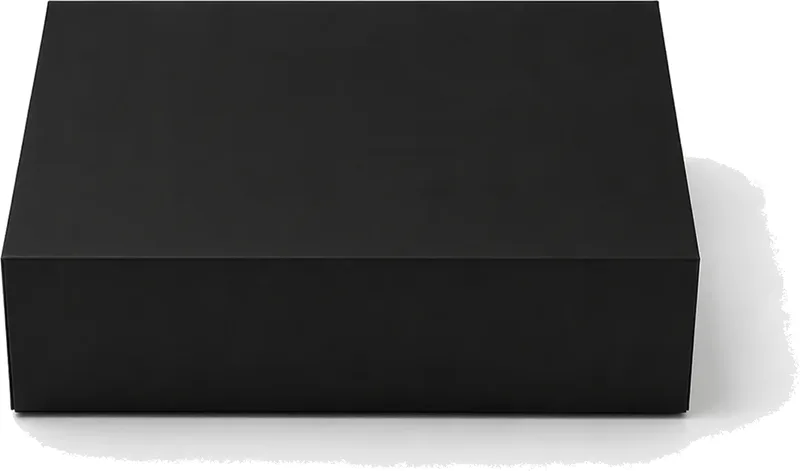
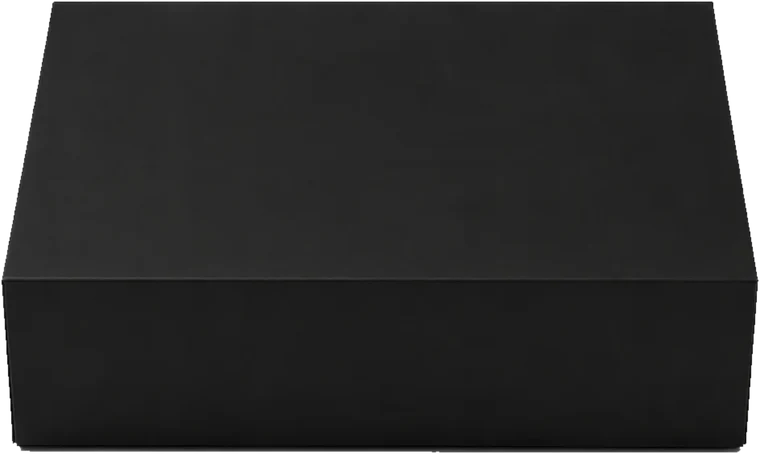
Interactive hero, product cards for occasions, clean gift box
- hero: instead of a photo with an overlaid inscription, a live hoodie
  mockup that types example inscriptions; visitors type their own text,
  pick colour and font, and «Далі» opens the constructor with it
- occasion cards show a real product with a typical design per occasion
  instead of stock model photos (model photos removed)
- gift box: no fake lettering, transparent cut-out with a soft shadow

Claude-Session: https://claude.ai/code/session_01JMdM8DraDBZumaFcPHsWvv

Changed region(s): [[0.0, 0.0, 0.9987, 1.0], [0.4237, 0.5859, 0.4539, 0.6167]]

diff --git a/index.html b/index.html
@@ -6,7 +6,7 @@
 <title>На подарунок — одяг з вашим написом, ініціалами чи датою</title>
 <meta name="description" content="Футболки, худі, світшоти, кепки й шопери з вишивкою або принтом: ініціали, дата, коротке слово, емблема чи герб Гоґвортсу. Макет до оплати, доставка Новою Поштою.">
 <meta name="theme-color" content="#FFFFFF">
-<link rel="preload" as="image" href="images/people/hero-pair.webp" fetchpriority="high">
+<link rel="preload" as="image" href="images/g/hoodieover-black-front.webp" fetchpriority="high">
 <link rel="icon" href="favicon.svg" type="image/svg+xml">
 <link rel="preconnect" href="https://fonts.googleapis.com">
 <link rel="preconnect" href="https://fonts.gstatic.com" crossorigin>
@@ -61,14 +61,20 @@
         <li><b>від 1 шт</b><span>без мінімалки</span></li>
       </ul>
     </div>
-    <figure class="hero2__photo">
-      <div class="hero2__scene">
-        <img src="images/people/hero-pair.webp" alt="Пара в худі з вишитими ініціалами «А + М»" width="825" height="1100" fetchpriority="high" decoding="async">
-        <span class="hero2__mark hero2__mark--light" style="left:46%;top:48.5%" aria-hidden="true">А + М</span>
-        <span class="hero2__mark" style="left:79%;top:50%" aria-hidden="true">А + М</span>
+    <div class="hlive" id="hlive">
+      <div class="garment hlive__garment" id="hl-garment" aria-live="off"></div>
+      <div class="hlive__panel">
+        <label class="hlive__label" for="hl-input">Спробуйте: впишіть ініціали, імʼя чи дату</label>
+        <div class="hlive__row">
+          <input class="input hlive__input" id="hl-input" type="text" maxlength="16" autocomplete="off" spellcheck="false" placeholder="напр. А + М…">
+          <button type="button" class="btn btn--primary hlive__go" id="hl-go">Далі</button>
+        </div>
+        <div class="hlive__opts">
+          <div class="hlive__colors" id="hl-colors" role="radiogroup" aria-label="Колір худі"></div>
+          <div class="hlive__fonts" id="hl-fonts" role="radiogroup" aria-label="Шрифт"></div>
+        </div>
       </div>
-      <figcaption class="hero2__tag"><span class="dot" aria-hidden="true"></span>Парні худі з вишивкою «А + М»</figcaption>
-    </figure>
+    </div>
   </div>
 </section>
 
@@ -79,11 +85,11 @@
       <p>Оберіть, кому даруєте, — покажемо готові ідеї. Будь-яку можна змінити під себе.</p>
     </div>
     <div class="ocards" id="ocards">
-      <button type="button" class="ocard" data-occasion="love"><span class="ocard__text"><span class="ocard__name">Коханим</span><span class="ocard__desc">Ініціали двох, дата знайомства, координати важливого місця.</span></span><img src="images/people/hoodieover-pair-front.webp" alt="" width="600" height="800" loading="lazy" decoding="async"></button>
-      <button type="button" class="ocard" data-occasion="colleagues"><span class="ocard__text"><span class="ocard__name">Колегам</span><span class="ocard__desc">Стримано й доречно: місто, ініціали, маленька емблема.</span></span><img src="images/people/tee-pair-front.webp" alt="" width="600" height="800" loading="lazy" decoding="async"></button>
-      <button type="button" class="ocard" data-occasion="newyear"><span class="ocard__text"><span class="ocard__name">На Новий рік</span><span class="ocard__desc">Рік на рукаві, сніжинка, однакові худі для всієї родини.</span></span><img src="images/people/hoodie-woman.webp" alt="" width="600" height="800" loading="lazy" decoding="async"></button>
-      <button type="button" class="ocard" data-occasion="xmas"><span class="ocard__text"><span class="ocard__name">На Різдво</span><span class="ocard__desc">Тепле худі чи світшот з ялинкою або зіркою.</span></span><img src="images/people/hoodieover-woman.webp" alt="" width="600" height="800" loading="lazy" decoding="async"></button>
-      <button type="button" class="ocard" data-occasion="hobby"><span class="ocard__text"><span class="ocard__name">Фанатам і хобі</span><span class="ocard__desc">Герб Гоґвортсу, біг, музика, кава.</span></span><img src="images/people/hoodieover-man.webp" alt="" width="600" height="800" loading="lazy" decoding="async"></button>
+      <button type="button" class="ocard" data-occasion="love"><span class="ocard__text"><span class="ocard__name">Коханим</span><span class="ocard__desc">Ініціали двох, дата знайомства, координати важливого місця.</span></span><span class="garment ocard__garment"></span></button>
+      <button type="button" class="ocard" data-occasion="colleagues"><span class="ocard__text"><span class="ocard__name">Колегам</span><span class="ocard__desc">Стримано й доречно: місто, ініціали, маленька емблема.</span></span><span class="garment ocard__garment"></span></button>
+      <button type="button" class="ocard" data-occasion="newyear"><span class="ocard__text"><span class="ocard__name">На Новий рік</span><span class="ocard__desc">Рік на рукаві, сніжинка, однакові худі для всієї родини.</span></span><span class="garment ocard__garment"></span></button>
+      <button type="button" class="ocard" data-occasion="xmas"><span class="ocard__text"><span class="ocard__name">На Різдво</span><span class="ocard__desc">Тепле худі чи світшот з ялинкою або зіркою.</span></span><span class="garment ocard__garment"></span></button>
+      <button type="button" class="ocard" data-occasion="hobby"><span class="ocard__text"><span class="ocard__name">Фанатам і хобі</span><span class="ocard__desc">Герб Гоґвортсу, біг, музика, кава.</span></span><span class="garment ocard__garment"></span></button>
     </div>
     <div class="ocards__nav">
       <div class="ocards__dots" id="ocards-dots" aria-hidden="true"></div>
@@ -317,9 +323,8 @@
 <section class="section gift" id="gift" aria-labelledby="gift-h">
   <div class="wrap gift__in">
     <figure class="gift__box">
-      <img src="images/people/gift-box.webp" alt="Чорна подарункова коробка" width="800" height="471" loading="lazy" decoding="async">
-      <span class="gift__brand" aria-hidden="true" translate="no">на подарунок</span>
-    </figure>
+      <img src="images/people/gift-box.webp" alt="Чорна подарункова коробка" width="760" height="454" loading="lazy" decoding="async">
+          </figure>
     <div>
       <p class="eyebrow">Пакування</p>
       <h2 id="gift-h">Подарунок, готовий до вручення</h2>

diff --git a/app.js b/app.js
@@ -266,7 +266,7 @@
     var html = '<div class="garment__frame" style="left:' + (left * 100).toFixed(2) + '%;top:' + (top * 100).toFixed(2) + '%;width:' + (W * 100).toFixed(2) + '%;height:' + (H * 100).toFixed(2) + '%">' +
       '<img src="images/g/' + s.product + '-' + col.id + '-' + view + '.webp" alt="' + esc(alt) + '" width="' + shot[0] + '" height="' + shot[1] + '"' + (opts.lazy ? ' loading="lazy"' : '') + ' decoding="async">';
     if (showDesign && !opts.noDesign) {
-      html += '<div class="garment__design garment__design--' + s.tech + '" style="left:' + (shot[2] + pl.fx * shot[4]).toFixed(2) + '%;top:' + (shot[3] + pl.fy * shot[5]).toFixed(2) + '%;width:' + (pl.fw * shot[4]).toFixed(2) + '%;' +
+      html += '<div class="garment__design garment__design--' + s.tech + '" style="left:' + (shot[2] + pl.fx * shot[4]).toFixed(2) + '%;top:' + (shot[3] + pl.fy * shot[5]).toFixed(2) + '%;width:' + (pl.fw * shot[4] * (opts.scale || 1)).toFixed(2) + '%;' +
         (pl.rot ? 'transform:translate(-50%,-50%) rotate(' + pl.rot + 'deg)' : '') + '">' + designSVG(s) + '</div>';
     }
     html += '</div>';
@@ -580,6 +580,80 @@
     sync();
   }
 
+
+  /* ---------- Перший екран: живий напис на худі ---------- */
+  var HL_EXAMPLES = ['А + М', 'est. 2019', 'Оля', 'київ', '14.02'];
+  var HL_COLORS = ['black', 'white', 'brown', 'gray', 'khaki'];
+  var HL_FONTS = { classic: 'Aa', modern: 'Aa', script: 'Aa' };
+  function heroLive() {
+    var el = $('#hl-garment'), input = $('#hl-input');
+    if (!el || !G.hoodieover) return;
+    var hl = { product: 'hoodieover', color: 'black', tech: 'embroidery', place: 'center', type: 'text', font: 'classic', thread: 'white', text: '' };
+    var userTyped = false, timer = null;
+
+    $('#hl-colors').innerHTML = HL_COLORS.map(function (c) {
+      var col = colorOf('hoodieover', c);
+      return '<label class="swatch" title="' + esc(col.name) + '"><input type="radio" name="hl-color" value="' + c + '"' + (c === hl.color ? ' checked' : '') + '><span style="--c:' + col.hex + '" aria-hidden="true"></span><span class="sr-only">Колір: ' + esc(col.name) + '</span></label>';
+    }).join('');
+    $('#hl-fonts').innerHTML = Object.keys(HL_FONTS).map(function (f) {
+      return '<label class="chip chip--font"><input type="radio" name="hl-font" value="' + f + '"' + (f === hl.font ? ' checked' : '') + '><span style="font-family:' + FONTS[f].css.replace(/"/g, "'") + ';font-weight:' + FONTS[f].weight + '">' + HL_FONTS[f] + '</span><span class="sr-only">' + esc(FONTS[f].name) + '</span></label>';
+    }).join('');
+
+    function draw() { renderGarment(el, assign({}, DEFAULT, hl), { view: 'front', fill: 0.9, scale: 1.45, noDesign: !hl.text.trim() }); }
+    draw();
+
+    // Друкуємо приклади по літері, доки людина не почне писати сама.
+    var ex = 0, pos = 0, deleting = false;
+    function tick() {
+      if (userTyped) return;
+      var word = HL_EXAMPLES[ex % HL_EXAMPLES.length];
+      if (!deleting) {
+        pos++; hl.text = word.slice(0, pos); draw();
+        if (pos >= word.length) { deleting = true; timer = setTimeout(tick, 1600); return; }
+        timer = setTimeout(tick, 120);
+      } else {
+        pos--; hl.text = word.slice(0, pos); draw();
+        if (pos <= 0) { deleting = false; ex++; timer = setTimeout(tick, 350); return; }
+        timer = setTimeout(tick, 45);
+      }
+    }
+    if (reduceMotion()) { hl.text = HL_EXAMPLES[0]; draw(); }
+    else timer = setTimeout(tick, 500);
+
+    input.addEventListener('input', function () {
+      userTyped = true; clearTimeout(timer);
+      hl.text = input.value; draw();
+    });
+    $('#hlive').addEventListener('change', function (e) {
+      var t = e.target;
+      if (t.name === 'hl-color') { hl.color = t.value; hl.thread = autoThread('hoodieover', t.value, 'white'); }
+      if (t.name === 'hl-font') hl.font = t.value;
+      draw();
+    });
+    function go() {
+      var text = (input.value || '').trim() || hl.text.trim() || HL_EXAMPLES[0];
+      setState({ product: 'hoodieover', color: hl.color, tech: 'embroidery', type: 'text', text: text, font: hl.font, place: 'center', thread: hl.thread }, true);
+    }
+    $('#hl-go').addEventListener('click', go);
+    input.addEventListener('keydown', function (e) { if (e.key === 'Enter') { e.preventDefault(); go(); } });
+  }
+
+  /* ---------- Картки приводів: виріб із типовим дизайном ---------- */
+  var OCC_PREVIEW = {
+    love: { product: 'hoodieover', color: 'brown', type: 'initials', initials: 'А + М', istyle: 'plain', place: 'center', thread: 'white' },
+    colleagues: { product: 'tote', color: 'beige', type: 'text', text: 'київ', font: 'modern', place: 'tote', thread: 'black', tech: 'print' },
+    newyear: { product: 'sweat', color: 'navy', type: 'emblem', motif: 'snowflake', caption: '2027', place: 'center', thread: 'white' },
+    xmas: { product: 'sweat', color: 'darkgreen', type: 'emblem', motif: 'tree', caption: '25.12', place: 'center', thread: 'white' },
+    hobby: { product: 'teeover', color: 'black', type: 'hogwarts', caption: '', place: 'center', thread: 'gold' }
+  };
+  function renderOccasions() {
+    $$('[data-occasion]').forEach(function (card) {
+      var g = card.querySelector('.ocard__garment');
+      var p = OCC_PREVIEW[card.getAttribute('data-occasion')];
+      if (g && p) renderGarment(g, assign({}, DEFAULT, { tech: 'embroidery' }, p), { lazy: true, fill: 0.84, scale: 1.3 });
+    });
+  }
+
   /* ---------- Банер: приклади змінюються ---------- */
   var HERO = [
     { label: 'Вишивка «А + М» на худі оверсайз', s: { product: 'hoodieover', color: 'black', tech: 'embroidery', place: 'center', type: 'initials', initials: 'А + М', istyle: 'plain', thread: 'white' } },
@@ -866,7 +940,8 @@
     $$('[data-days]').forEach(function (el) { el.textContent = CONFIG.productionDays; });
     $$('[data-tg]').forEach(function (el) { el.href = 'https://t.me/' + CONFIG.telegram; });
     $$('[data-base-price]').forEach(function (el) { el.textContent = money(CONFIG.base); });
-    heroLoop();
+    heroLive();
+    renderOccasions();
     renderCatalog();
     bindCarousel('#ocards', '#ocards-dots', 'data-ocards');
     bindCarousel('#cases-track', '#cases-dots', 'data-cases');

diff --git a/styles.css b/styles.css
@@ -501,3 +501,31 @@ button { font: inherit; color: inherit; }
 .hp { position: absolute; left: -9999px; width: 1px; height: 1px; overflow: hidden; }
 [data-step="sent"] { display: grid; align-content: start; gap: 12px; }
 [data-step="sent"][hidden] { display: none; }
+
+/* Перший екран: живий напис */
+.hlive { justify-self: end; width: 100%; max-width: 520px; background: #fff; border: 1px solid var(--line); border-radius: 28px; padding: 14px; box-shadow: var(--shadow); }
+.hlive__garment { border-radius: 18px; }
+.hlive__panel { padding: 14px 6px 4px; display: grid; gap: 12px; }
+.hlive__label { font-size: 14px; font-weight: 600; }
+.hlive__row { display: flex; gap: 8px; }
+.hlive__input { flex: 1; min-width: 0; font-weight: 600; }
+.hlive__go { min-height: 48px; padding: 0 22px; }
+.hlive__opts { display: flex; justify-content: space-between; align-items: center; gap: 12px; flex-wrap: wrap; }
+.hlive__colors { display: flex; gap: 4px; }
+.hlive__colors .swatch span[aria-hidden] { width: 36px; height: 36px; }
+.hlive__colors .swatch { padding: 4px; margin: -4px; }
+.hlive__fonts { display: flex; gap: 6px; }
+.chip--font span:first-of-type { min-width: 48px; justify-content: center; font-size: 18px; padding: 0 12px; }
+@media (max-width: 900px) {
+  .hlive { order: -1; justify-self: stretch; max-width: none; border-radius: 22px; padding: 10px; }
+  .hlive__garment { width: min(100%, 340px); margin: 0 auto; }
+  .hlive__panel { padding: 12px 4px 2px; gap: 10px; }
+}
+@media (max-width: 900px) and (max-height: 700px) { .hlive__garment { width: min(100%, 230px); } }
+.ocard__garment { border-radius: 0; }
+
+.gift__box { display: grid; place-items: center; }
+.gift__box img { max-width: 86%; filter: drop-shadow(0 24px 24px rgba(15, 17, 21, .22)); }
+.gift__box { padding: 48px 24px; }
+.hlive__garment .garment__design { transform-origin: center; }
+@media (max-width: 900px) { .hlive { order: 0; } }
